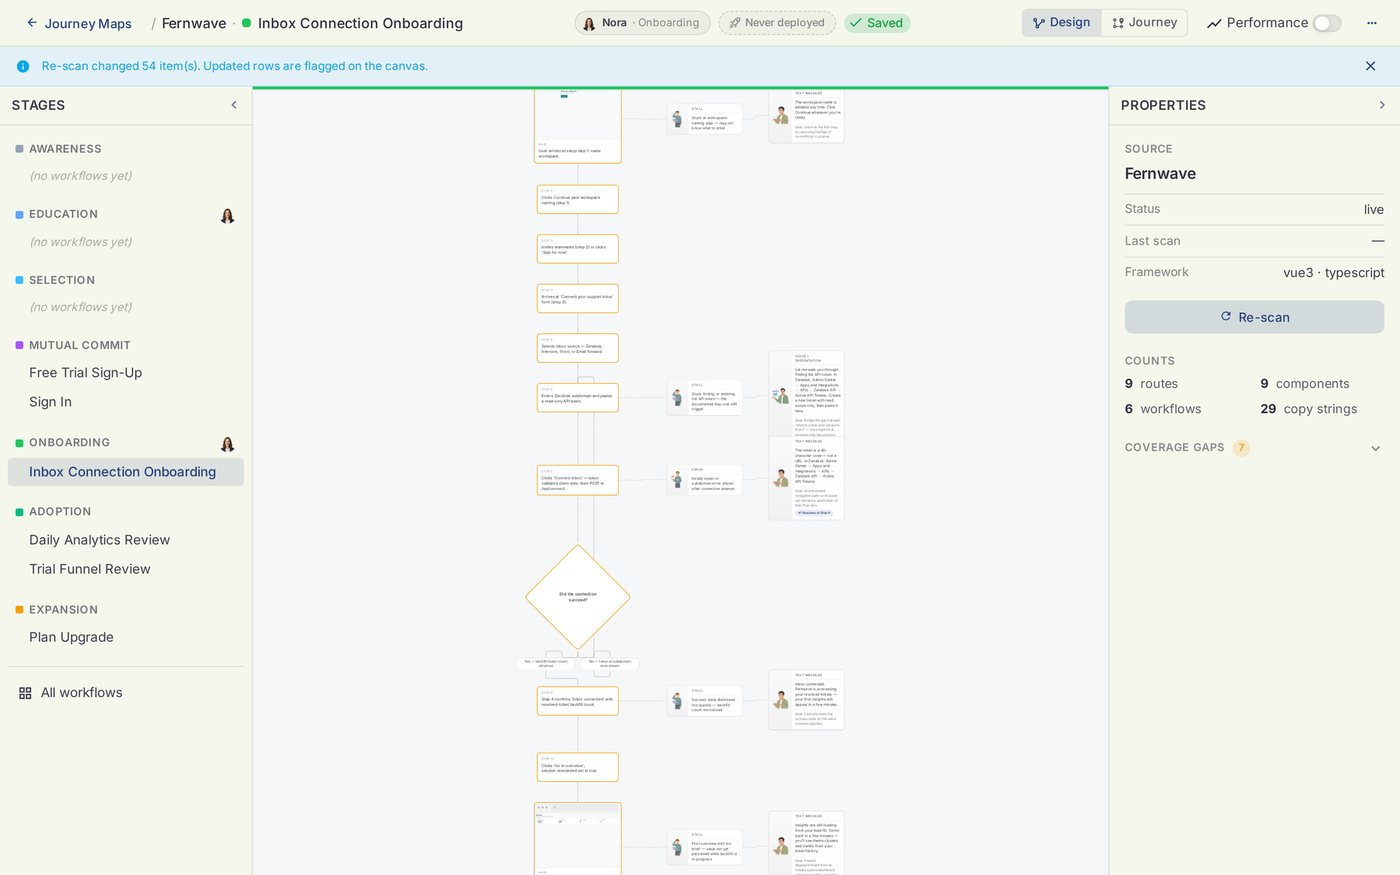
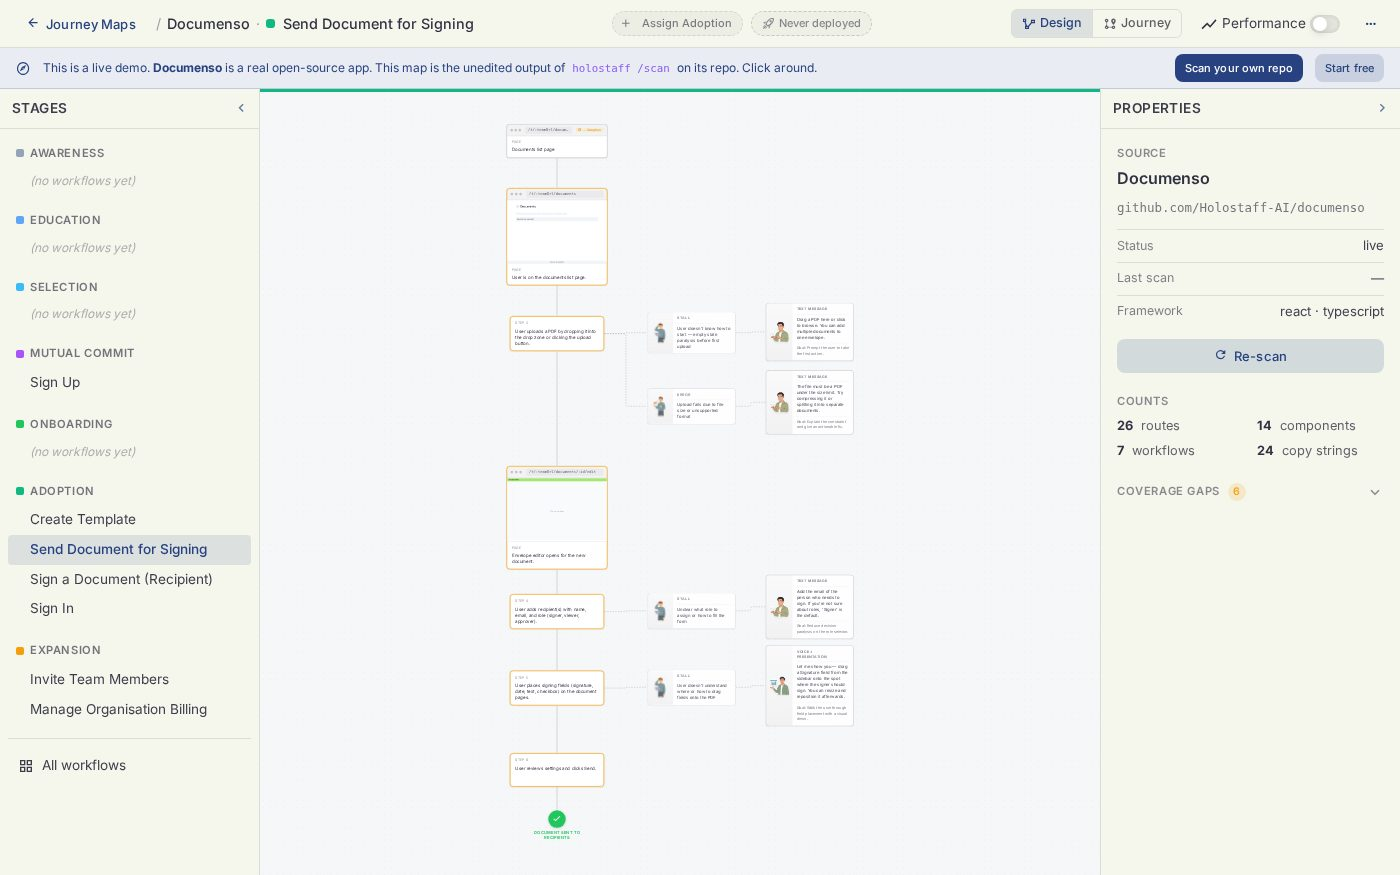
docs: README rebuilt for skimming; handover GIFs up top; fresh map screenshot; old-era assets removed

diff --git a/README.md b/README.md
@@ -7,15 +7,32 @@
 [![node](https://img.shields.io/badge/node-%3E%3D20-brightgreen)](#)
 [![changelog](https://img.shields.io/badge/changelog-0.10.2-8a2be2)](./CHANGELOG.md)
 
-[holostaff.ai](https://www.holostaff.ai) · [Live map](https://www.holostaff.ai/journey-maps/ks_msej1m5f_08yytu/canvas) · [Docs](https://docs.holostaff.ai) · [Pricing](https://www.holostaff.ai/pricing) · [What a computer-use agent is](https://www.holostaff.ai/computer-use-agents)
+A user clicks the button. An agent does the task for them, on their screen, in their own session. It asks before anything that pays, sends, or deletes. We call it a workflow autopilot.
 
-Holostaff adds a "Do this for me" button to your web app. When a user clicks it, an agent completes that task on screen, in the user's own session, clicking and typing where they would. It asks before anything that pays, sends, or deletes. We call one of these agents a workflow autopilot.
+Two real handovers on real open-source apps. Nothing staged, edited for time.
 
-Not a chatbot (it never chats; it acts). Not a product tour (a tour explains the task; an autopilot does it). Not an outside browser agent (it runs inside your page, under rules you review in a pull request).
+| Document signing app: invite a teammate | Form builder: build and publish a form |
+| --- | --- |
+| ![Autopilot invites a teammate in a document signing app](assets/handover-documenso.gif) | ![Autopilot builds and publishes a form in a form builder](assets/handover-opnform.gif) |
 
-This CLI is step one. It scans your repo and produces a map of your routes and workflows. You pick which workflows get a button.
+[holostaff.ai](https://www.holostaff.ai) · [Live map, no sign-up](https://www.holostaff.ai/journey-maps/ks_msej1m5f_08yytu/canvas) · [Docs](https://docs.holostaff.ai) · [Pricing](https://www.holostaff.ai/pricing) · [Security](https://www.holostaff.ai/security)
 
-![holostaff /scan demo](assets/demo.gif)
+## Contents
+
+- [Get started](#get-started)
+- [What it is](#what-it-is)
+- [What lands in your codebase](#what-lands-in-your-codebase)
+- [Safety rules](#safety-rules)
+- [How it works](#how-it-works)
+- [Your data](#your-data)
+- [Pricing](#pricing)
+- [Status](#status)
+- [Commands](#commands)
+- [CI mode](#ci-mode)
+- [Auth, config, telemetry](#auth-config-telemetry)
+- [License and contributing](#license-and-contributing)
+
+## Get started
 
 ```bash
 npm install -g @holostaff/cli
@@ -23,24 +40,33 @@ cd your-app
 holostaff
 ```
 
-No model keys. No config files. No YAML. Sign in from the terminal, type `/scan`, and watch your product turn into a map. Works with React, Next.js, Vue, Nuxt, Remix, SvelteKit, Astro, and Express apps. The scan runs on your machine and takes about 2 minutes for a typical app, up to 15 minutes on a large monorepo.
+Then type `/scan`. Sign in when asked. In about two minutes you have a map of your product's workflows.
 
-Want proof before installing anything? **[Open a live map](https://www.holostaff.ai/journey-maps/ks_msej1m5f_08yytu/canvas)**. It is Documenso, the open-source document signing platform, scanned by this CLI. Everything on that canvas is the unedited output of `/scan`. No sign-up needed. Two recorded handovers on real open-source apps: [Documenso](https://www.holostaff.ai/landing/v5/handover-documenso.webm) and [OpnForm](https://www.holostaff.ai/landing/v5/handover-opnform.webm).
+No model keys. No config. No YAML. Works with React, Next.js, Vue, Nuxt, Remix, SvelteKit, Astro, and Express.
+
+![The scan in the terminal](assets/demo.gif)
+
+Not ready to install? [Open a live map](https://www.holostaff.ai/journey-maps/ks_msej1m5f_08yytu/canvas). It is Documenso, scanned by this CLI. Nothing on it was edited.
+
+## What it is
+
+- **Not a chatbot.** It never chats. It acts.
+- **Not a product tour.** A tour explains the task. An autopilot does it.
+- **Not an outside browser agent.** It runs inside your page, under rules you review in a pull request.
+
+This repo is the CLI. It scans your repo and draws the map. The agent that runs in your app is `@holostaff/sdk`, added later by one PR.
 
 ## What lands in your codebase
 
-The entire production footprint is one pull request, opened by `holostaff deploy`. You review it like any other change. Merging is going live. Reverting is rollback. Nothing lands on its own.
+One pull request, opened by `holostaff deploy`. You review it. Merging is going live. Reverting is rollback.
 
 ```diff
 + import { holostaff } from '@holostaff/sdk'
 +
 + // Once at app startup.
-+ holostaff.init({
-+   sourceId: 'cli-source-abc',
-+   tenantId: 'your-tenant-id',
-+ })
++ holostaff.init({ sourceId: 'cli-source-abc', tenantId: 'your-tenant-id' })
 +
-+ // At journey-stage boundaries, placed from your journey map.
++ // Optional. Once when a user reaches a milestone, for example after onboarding.
 + holostaff.markStageEntry('onboarding')
 +
 + // On sign-in / sign-out.
@@ -48,185 +74,155 @@ The entire production footprint is one pull request, opened by `holostaff deploy
 + holostaff.clearIdentity()
 ```
 
-The SDK renders the offer card, the run, the questions it asks, the Allow pill, and the always-visible Stop. You write none of that. Reverting the PR removes all of it.
+The SDK draws the button, the run, the questions, the Allow pill, and the Stop. You write none of it. Revert the PR and all of it is gone.
 
-## What the runtime does in production
+- About 80 KB gzipped, loaded once.
+- Talks to one host: your Holostaff workspace. No trackers.
+- Records the page structure and visible text so the agent can see the screen. Password, email, and phone fields are always masked. Add `holostaff-mask` or `holostaff-block` to anything else private. Nothing is sent before the user's first real click. Turn it off per host with `observe: { enabled: false }`.
+- Uninstall: revert the PR, delete `.holostaff/` in your repo and `~/.holostaff/credentials.json`.
 
-- **Size.** `@holostaff/sdk` is about 80 KB gzipped, loaded once. It adds no framework and no global CSS beyond its own scoped styles.
-- **Network.** It talks to one host: your Holostaff workspace API. No third-party trackers, no ad networks.
-- **What it sees.** The autopilot acts from what is on screen, so the SDK records the page structure and visible text while a session is active. Password, email, and phone inputs are always masked. Mark any rendered PII with the `holostaff-mask` or `holostaff-block` CSS class and it never leaves the browser. Nothing is sent until the user's first real interaction, so bots and bounces cost nothing and ship nothing. Set `observe: { enabled: false }` to turn capture off for a host.
-- **Data handling.** Hosting regions, retention, and DPA terms are on one page: [holostaff.ai/security](https://www.holostaff.ai/security). Vulnerability reports: [SECURITY.md](./SECURITY.md).
-- **Uninstall.** Revert the PR. The CLI keeps its state in `.holostaff/` in your repo and `~/.holostaff/credentials.json`. Delete both and nothing remains.
+## Safety rules
 
-## The safety envelope
+Enforced in the runtime, not in a prompt. Not configurable per autopilot.
 
-The autopilot acts inside your page through the SDK, in the user's own session, one small action at a time. Every target is highlighted on screen before anything happens. Consequential clicks (pay, submit, delete, send, sign) wait for the user to press an inline Allow, and no answer means no. It will never type into password, payment, or code fields: it points, the user types. Any keystroke from the user pauses it, and Stop never leaves the screen. These rules are enforced in the runtime, not the prompt, and they are not configurable per autopilot.
+- Every target is highlighted on screen before it is clicked.
+- Pay, submit, delete, send, sign: the user presses **Allow** first. No answer means no.
+- It never types into password, payment, or code fields. It points. The user types.
+- Any keystroke from the user pauses it.
+- **Stop** never leaves the screen.
 
 ## How it works
 
-**1. Map.** `/scan` sends an agent through your codebase and draws your real customer journey: the routes, the workflows, the tasks worth taking over. The skeleton of the map is live about 90 seconds in; the deep pass keeps working while you explore it.
+1. **Map.** `/scan` reads your repo and draws your workflows. The map is live in about 90 seconds; the deep pass keeps going while you look.
+2. **Rehearse.** Synthetic users run each workflow in a real browser against the URL you set (use staging). Every run is recorded and graded.
+3. **Certify.** An autopilot ships only while every run in its suite passes. Suites gate every PR.
+4. **Deploy.** `holostaff deploy` opens the PR above.
+5. **Verify.** Every handover is logged and counted only when the task actually got done.
 
-![A scanned workflow on the journey map canvas](assets/journey-map.jpg)
+![A scanned workflow on the map](assets/journey-map.jpg)
 
-**2. Rehearse.** Synthetic users run each workflow in a headless browser against the URL you set for the source, so point it at staging. They sign up, fill forms, hesitate, and give up the way real users do. Every run is recorded, graded, and watchable. They find what breaks before your users do.
-
-![A rehearsal in progress: a synthetic user inside a real browser session, with the run timeline](assets/eval-run.jpg)
-
-**3. Certify.** A workflow's autopilot must pass two levels: synthetic users complete the workflow themselves, then hand the task over and the autopilot completes it. Certified means every run in the suite passed on that build. Suites gate every PR. An autopilot ships only while its workflow passes.
-
-![The evaluations board: scenarios generated from the scan, with verdicts](assets/evaluations.jpg)
-
-**4. Deploy.** `holostaff deploy` opens the pull request above.
-
-**5. Verify.** Every handover is logged, watchable, and counted only when the task actually completed.
-
-## Certification in CI
-
-Synthetic users gate every pull request. Green means the autopilots on that build are certified; a failing suite takes the offer down instead of shipping a broken handover.
+Gate pull requests with the [GitHub Action](https://github.com/Holostaff-AI/simulate-action):
 
 ```yaml
-name: Holostaff simulate
-on:
-  pull_request:
-
-jobs:
-  simulate:
-    runs-on: ubuntu-latest
-    permissions:
-      contents: read
-      pull-requests: write
-    steps:
-      - uses: actions/checkout@v4
-      - uses: Holostaff-AI/simulate-action@v1
-        with:
-          api-key: ${{ secrets.HOLOSTAFF_API_KEY }}
-          source-id: ks_your_source_id
+- uses: Holostaff-AI/simulate-action@v1
+  with:
+    api-key: ${{ secrets.HOLOSTAFF_API_KEY }}
+    source-id: ks_your_source_id
 ```
 
-The PR comment reads `workflow certified (n/n runs)` when the suite passes. See [simulate-action](https://github.com/Holostaff-AI/simulate-action).
+The PR comment reads `workflow certified (n/n runs)` when the suite passes.
 
-## What leaves your machine during a scan (and what never does)
+## Your data
 
-`/scan` reads your source with read-only tools, and before anything uploads, a trust report shows you exactly what is about to be sent. The artifact contains only:
+The scan runs on your machine. Before anything uploads, a trust report shows the exact artifact. It holds only:
 
-- Product identity: name, one-line description, framework, language
-- Routes (paths and descriptions) and component names with roles
-- Customer-facing copy strings (the literal text users see, with locations)
-- Brand voice (tone, keywords)
-- Workflows and their steps
-- Coverage gaps the scan flagged
+- Product name, description, framework, language.
+- Routes and component names with roles.
+- The copy strings users see, with file locations.
+- Brand voice, workflows and their steps, coverage gaps.
 
-Your source code, file contents beyond the excerpted UI strings, `.env` files, secrets, and git history never leave your machine.
+Your source code, `.env` files, secrets, and git history never leave your machine.
+
+Hosting regions, retention, deletion, DPA: [holostaff.ai/security](https://www.holostaff.ai/security). Vulnerabilities: [SECURITY.md](./SECURITY.md).
+
+## Pricing
+
+Scan and map are free, no card. Going live starts a 14-day trial.
+
+| | Team | Growth |
+| --- | --- | --- |
+| Platform | $99/mo | $299/mo |
+| Simulation runs included | 300, then $0.49 | 1,500, then $0.29 |
+| Completed handovers included | 100, then $0.99 | 500, then $0.69 |
+
+A handover that stops or fails costs nothing. [Full pricing](https://www.holostaff.ai/pricing).
 
 ## Status
 
-**Alpha, and live.** The package is on npm and every flow in this README works end-to-end against the hosted Holostaff API: sign-in, `/scan`, `/refine`, `/instrument`, `/embed`, and `holostaff deploy`. Model calls are served by your Holostaff workspace. Fair-use daily limits apply per workspace, and the CLI tells you if you hit one. Releases are tagged on GitHub and listed in the [changelog](./CHANGELOG.md).
-
-Alpha means: interfaces may still change between minor versions, scans of very large monorepos can be slow, and you should read the diff before merging anything the agent commits.
-
-## What it costs
-
-Scan and map: free, no card. Going live: 14-day trial, then Team at $99/month (300 simulation runs and 100 completed handovers included, then $0.49 and $0.99 each) or Growth at $299/month (1,500 runs and 500 handovers included, then $0.29 and $0.69). A handover that stops or fails costs nothing. [Pricing](https://www.holostaff.ai/pricing).
+**Alpha, and live.** Every flow in this README works end to end against the hosted service. Interfaces may change between minor versions. Read the diff before merging anything the agent commits. Releases are tagged and listed in the [changelog](./CHANGELOG.md).
 
 ## Commands
 
-### Slash commands (interactive)
+<details>
+<summary>Slash commands (interactive)</summary>
 
 | Command | Purpose |
-|---------|---------|
-| `/scan` | Scan this repo, produce + upload an artifact |
-| `/scan --add-repo` | Pick an existing source to merge into (multi-repo product) |
-| `/refine` | Edit identity overrides on the live artifact |
-| `/instrument` | Generate Holostaff SDK init + tracking, commit to a branch |
-| `/embed` | Add the autopilot layer to the app entry, commit to a branch |
-| `/whoami` · `/workspace` · `/login` · `/logout` | Auth + session utilities |
-| `/help` · `/quit` | Help / exit |
+| --- | --- |
+| `/scan` | Scan this repo, build and upload the map |
+| `/scan --add-repo` | Merge into an existing source (multi-repo product) |
+| `/refine` | Edit identity overrides on the live map |
+| `/instrument` | Add SDK init and stage markers on a branch |
+| `/embed` | Add the autopilot layer to the app entry on a branch |
+| `/whoami` `/workspace` `/login` `/logout` | Auth and session |
+| `/help` `/quit` | Help, exit |
 
-### Argv subcommands (scriptable)
+</details>
+
+<details>
+<summary>Argv subcommands (scriptable)</summary>
 
 | Command | Purpose |
-|---------|---------|
+| --- | --- |
 | `holostaff` | Open the interactive shell |
-| `holostaff login` | Re-run device-flow auth |
-| `holostaff logout` | Clear local credentials |
-| `holostaff whoami` | Show signed-in user + workspace |
-| `holostaff workspace` | Show active workspace |
-| `holostaff import NAME` | Import a preset journey map instead of scanning (`import` alone lists them) |
-| `holostaff scan [--add-repo ID] [--quiet] [--json] [--out PATH]` | Headless scan + upload (CI-friendly) |
+| `holostaff scan [--add-repo ID] [--quiet] [--json] [--out PATH]` | Headless scan and upload |
 | `holostaff deploy [--dry-run] [--force]` | Open the deploy PR |
-| `holostaff --version` · `--help` | Version / usage |
+| `holostaff import NAME` | Import a preset map instead of scanning (`import` alone lists them) |
+| `holostaff login` `logout` `whoami` `workspace` | Auth and session |
+| `holostaff --version` `--help` | Version, usage |
 
-## CI / scriptable mode
+</details>
 
-`holostaff scan --quiet --json` runs the full scan + upload without a TTY. Auth comes from env vars; result is a single JSON object on stdout.
+## CI mode
 
 ```bash
-export HOLOSTAFF_API_KEY="hsk_…"             # workspace API key
-export HOLOSTAFF_WORKSPACE_ID="workspace_…"  # the workspace it's bound to
-
+export HOLOSTAFF_API_KEY="hsk_…"             # workspace API key (Settings → CLI keys)
+export HOLOSTAFF_WORKSPACE_ID="workspace_…"
 holostaff scan --quiet --json --out artifact.json
-test $? -eq 0 || exit 1
-
 jq -r '.upload.viewUrl' artifact.json
 ```
 
-Exit codes:
-- `0` uploaded successfully
-- `1` scan or upload failed
-- `2` bad args or preflight (missing env)
-- `3` auth not configured for CI
+Exit codes: `0` uploaded, `1` scan or upload failed, `2` bad args or missing env, `3` auth not configured.
 
-## Auth
+For PR gating use the [GitHub Action](https://github.com/Holostaff-AI/simulate-action).
 
-Two paths:
+## Auth, config, telemetry
 
-**Interactive (default):** OAuth-style device flow. Run `holostaff` and a browser opens to authorize. Credentials live in `~/.holostaff/credentials.json` (mode `0600`).
+<details>
+<summary>Auth</summary>
 
-**CI:** Set `HOLOSTAFF_API_KEY` + `HOLOSTAFF_WORKSPACE_ID` in your environment. The CLI skips the file-based path when these are set.
+Interactive: run `holostaff`, a browser opens to authorize. Credentials live in `~/.holostaff/credentials.json` (mode `0600`). CI: set `HOLOSTAFF_API_KEY` and `HOLOSTAFF_WORKSPACE_ID`; the CLI skips the file when both are set.
 
-Generate a workspace API key in the dashboard under Settings → CLI keys.
+</details>
 
-## Per-repo source binding
+<details>
+<summary>Per-repo source binding</summary>
 
-After your first successful upload, the CLI writes `.holostaff/source.json` in your repo. Subsequent scans bind to the same Holostaff source and version-bump its artifact.
+After the first upload the CLI writes `.holostaff/source.json`. Later scans bind to the same source and version-bump its map. Add the file to `.gitignore` if you do not want teammates' scans landing on your source. Shared team bindings are not supported yet.
 
-Add `.holostaff/source.json` to your `.gitignore` if you don't want teammates' scans to land on your source automatically. Shared team bindings aren't supported yet.
+</details>
 
-## Environment variables
+<details>
+<summary>Environment variables</summary>
 
-| Var | Required | What |
-|-----|----------|------|
-| `HOLOSTAFF_API_KEY` | CI mode | Workspace API key (Bearer JWT) |
-| `HOLOSTAFF_WORKSPACE_ID` | CI mode | Workspace this key is bound to |
-| `HOLOSTAFF_API_BASE_URL` | optional | Backend URL override (default: prod) |
-| `HOLOSTAFF_APP_BASE_URL` | optional | Dashboard URL for the result `viewUrl` (default: `https://www.holostaff.ai`) |
+| Variable | When | What |
+| --- | --- | --- |
+| `HOLOSTAFF_API_KEY` | CI | Workspace API key |
+| `HOLOSTAFF_WORKSPACE_ID` | CI | Workspace the key is bound to |
+| `HOLOSTAFF_API_BASE_URL` | optional | Backend URL override |
+| `HOLOSTAFF_APP_BASE_URL` | optional | Dashboard URL for `viewUrl` |
+| `HOLOSTAFF_TELEMETRY` | optional | `0` turns telemetry off |
 
-Model access needs no configuration: scans run against the model deployment hosted by your Holostaff workspace, authenticated with your session. Fair-use daily limits apply per workspace; the CLI tells you if you hit one.
+Model access needs no configuration. Scans run through your Holostaff workspace. Fair-use daily limits apply and the CLI tells you if you hit one.
 
-## Telemetry
+</details>
 
-Anonymous, opt-out. The CLI emits typed events for command starts, completions, and errors so we can see what's working and what's broken.
+<details>
+<summary>Telemetry</summary>
 
-What's collected (per event):
-- `cli_version`, `node_version`, `os`
-- Hashed `workspace_id` (SHA-256, never the raw ID)
-- `command` (`scan` / `instrument` / etc.)
-- `duration_ms`, `outcome`
-- `framework_detected`, `repo_size_bucket`
-- `error_kind` for failures (typed: `auth_expired`, `instrument_typecheck_failed`, `network_blocked`, etc.)
+Anonymous, opt-out. Per event: CLI and Node versions, OS, a hashed workspace id, command name, duration, outcome, detected framework, repo size bucket, typed error kind. Never file paths, source, or secrets. `HOLOSTAFF_TELEMETRY=0` turns it off.
 
-What's never collected: file paths, source code, source content, secrets.
+</details>
 
-To disable: set `HOLOSTAFF_TELEMETRY=0` in your environment.
+## License and contributing
 
-## License
-
-Apache-2.0. See [LICENSE](./LICENSE).
-
-## Contributing
-
-PRs welcome. See [CONTRIBUTING.md](./CONTRIBUTING.md) for dev setup, smoke spikes, and the release flow. Release notes live in [CHANGELOG.md](./CHANGELOG.md).
-
-## Reporting issues
-
-Open an issue at https://github.com/Holostaff-AI/holostaff-cli/issues or reach out via your Holostaff workspace's support channel.
+Apache-2.0. PRs welcome; see [CONTRIBUTING.md](./CONTRIBUTING.md) for dev setup and the release flow. Bugs and ideas: [issues](https://github.com/Holostaff-AI/holostaff-cli/issues).
